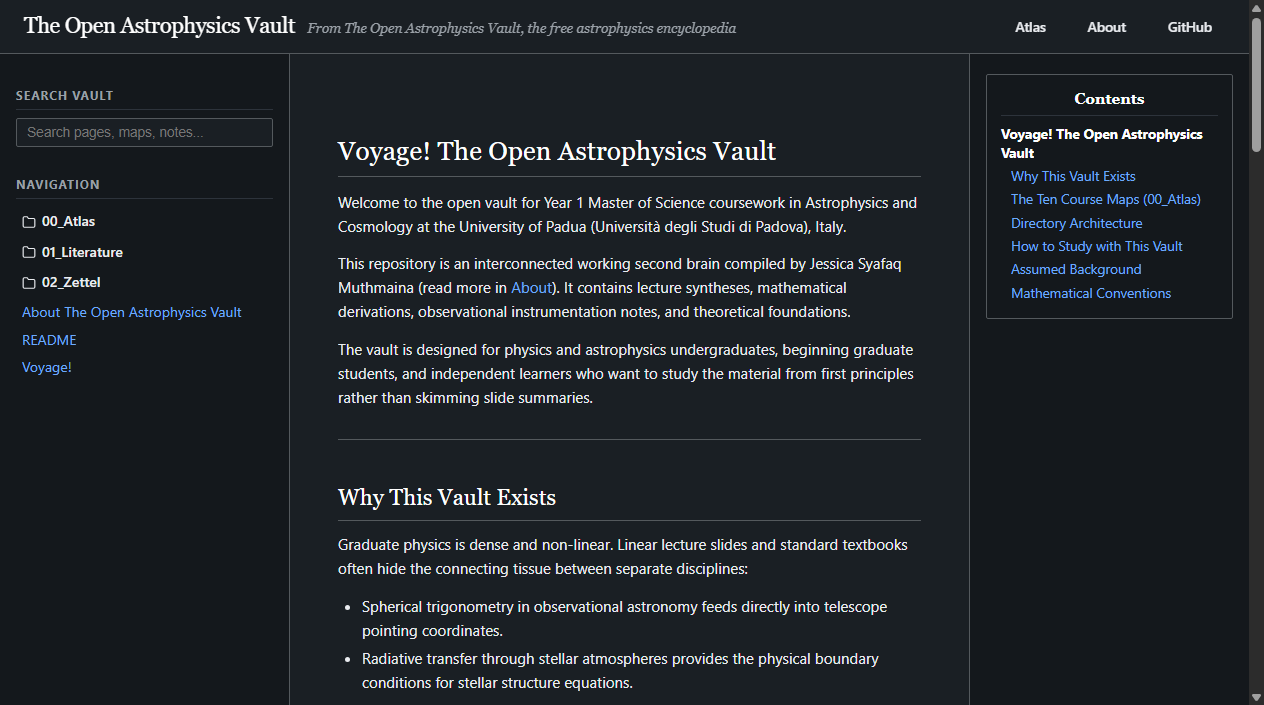
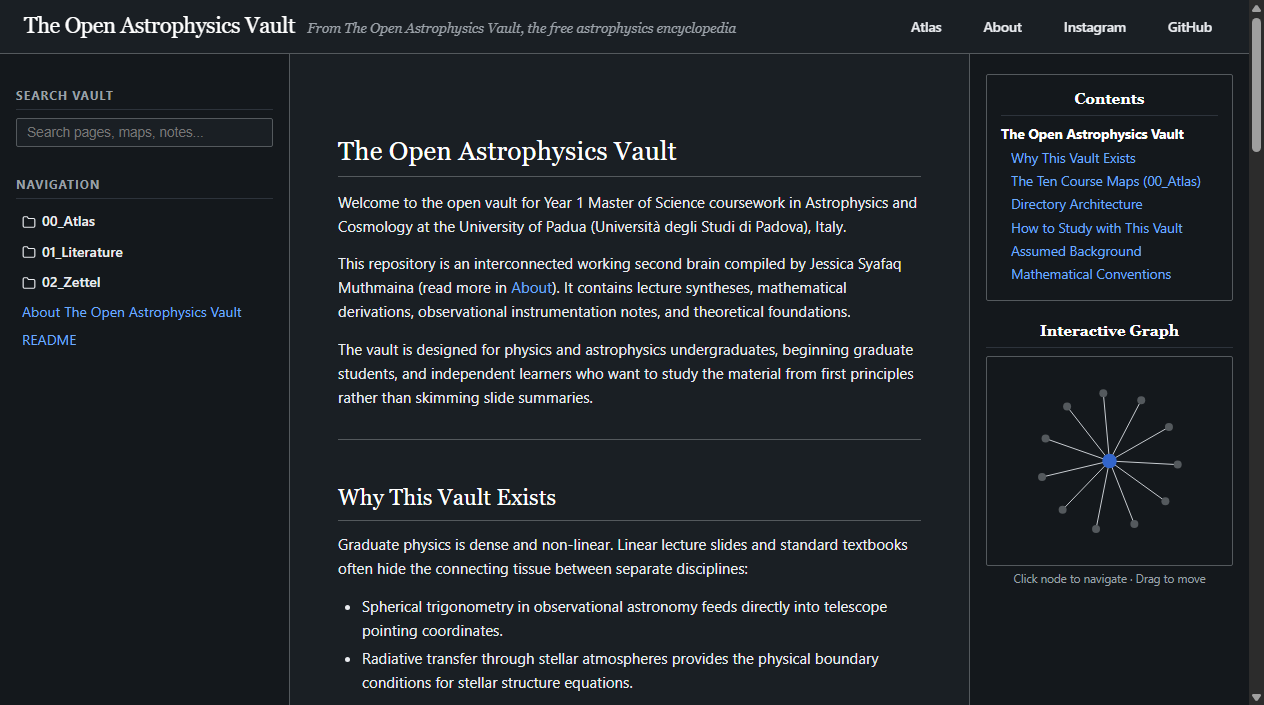
Rebrand to Your AstroNotes and configure root URL for yourastronotes.github.io

diff --git a/_layouts/default.html b/_layouts/default.html
@@ -16,7 +16,7 @@
   <header>
     <div class="header-brand">
       <a href="{{ '/' | relative_url }}" class="logo">{{ site.title }}</a>
-      <span class="header-subtitle">From The Open Astrophysics Vault, the free astrophysics encyclopedia</span>
+      <span class="header-subtitle">From Your AstroNotes, the free astrophysics encyclopedia</span>
     </div>
     <nav class="header-nav">
       <a href="{{ '/' | relative_url }}" class="header-tab">Atlas</a>
@@ -38,7 +38,7 @@
       {% unless page.url == '/' or page.path == 'index.md' or page.title == 'index' %}
       <div class="article-header">
         <h1 class="article-title">{{ page.title }}</h1>
-        <div class="article-tagline">From The Open Astrophysics Vault, the free graduate second brain</div>
+        <div class="article-tagline">From Your AstroNotes, the free graduate second brain</div>
       </div>
       {% endunless %}
       <div class="markdown-body">

diff --git a/assets/css/style.css b/assets/css/style.css
@@ -1,4 +1,4 @@
-/* Wikipedia / MediaWiki Vector Skin Theme for The Open Astrophysics Vault */
+/* Wikipedia / MediaWiki Vector Skin Theme for Your AstroNotes */
 
 :root {
   --bg-color: #f6f6f6;

diff --git a/About.md b/About.md
@@ -1,9 +1,9 @@
 ---
 layout: default
-title: About The Open Astrophysics Vault
+title: About Your AstroNotes
 ---
 
-# About The Open Astrophysics Vault
+# About Your AstroNotes
 
 Welcome to the public archive of Year 1 Master of Science notes in Astrophysics and Cosmology from the University of Padua (Università degli Studi di Padova), Italy.
 

diff --git a/README.md b/README.md
@@ -3,7 +3,7 @@ layout: default
 title: "README"
 ---
 
-# The Open Astrophysics Vault
+# Your AstroNotes
 
 Welcome to the open vault for Year 1 Master of Science coursework in Astrophysics and Cosmology at the University of Padua (Università degli Studi di Padova), Italy.
 

diff --git a/index.md b/index.md
@@ -3,7 +3,7 @@ layout: default
 title: "index"
 ---
 
-# The Open Astrophysics Vault
+# Your AstroNotes
 
 Welcome to the open vault for Year 1 Master of Science coursework in Astrophysics and Cosmology at the University of Padua (Università degli Studi di Padova), Italy.
 
